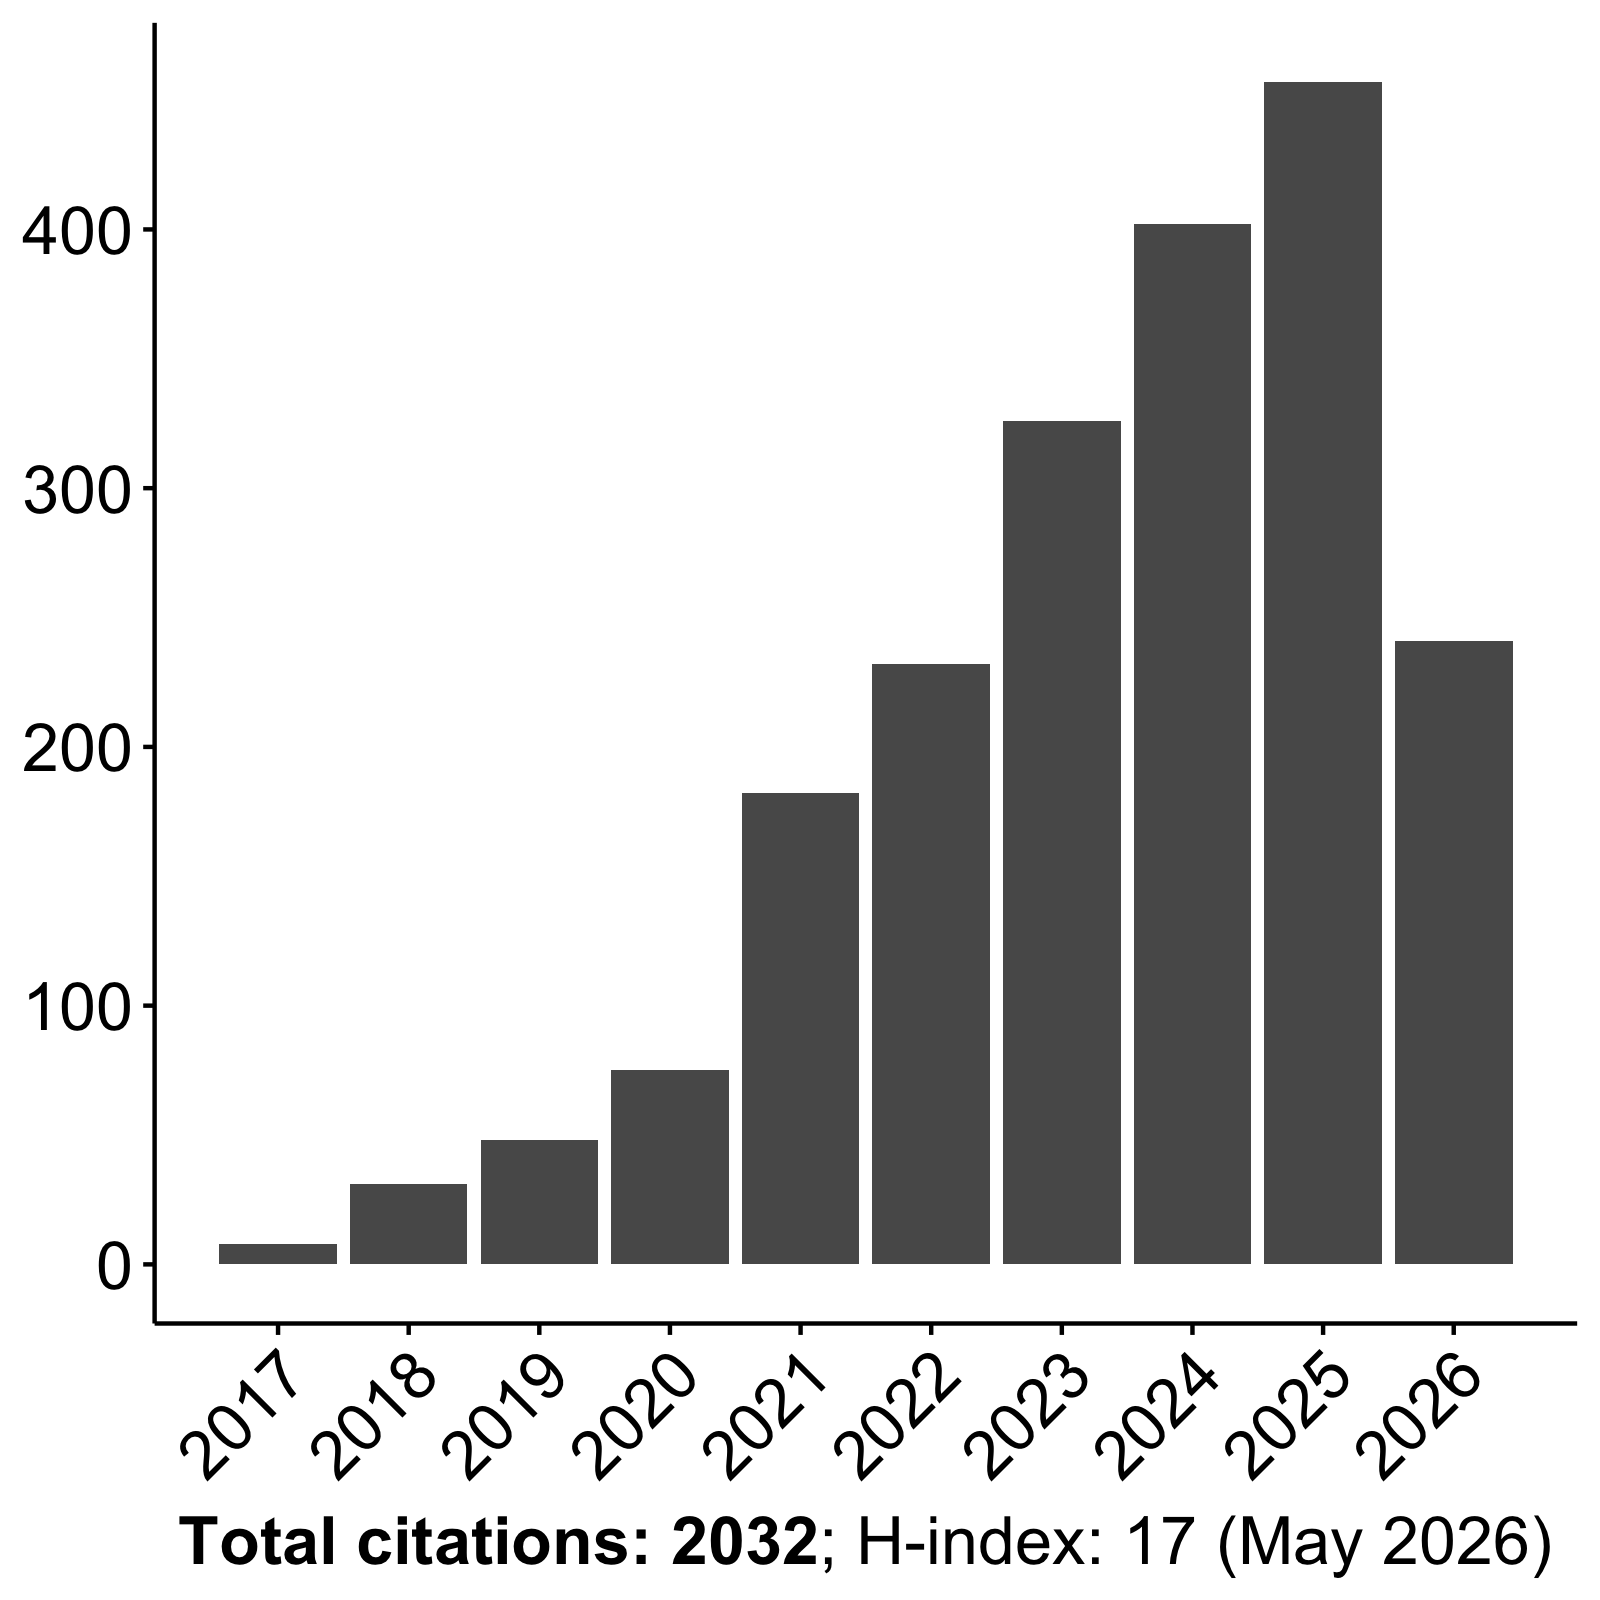
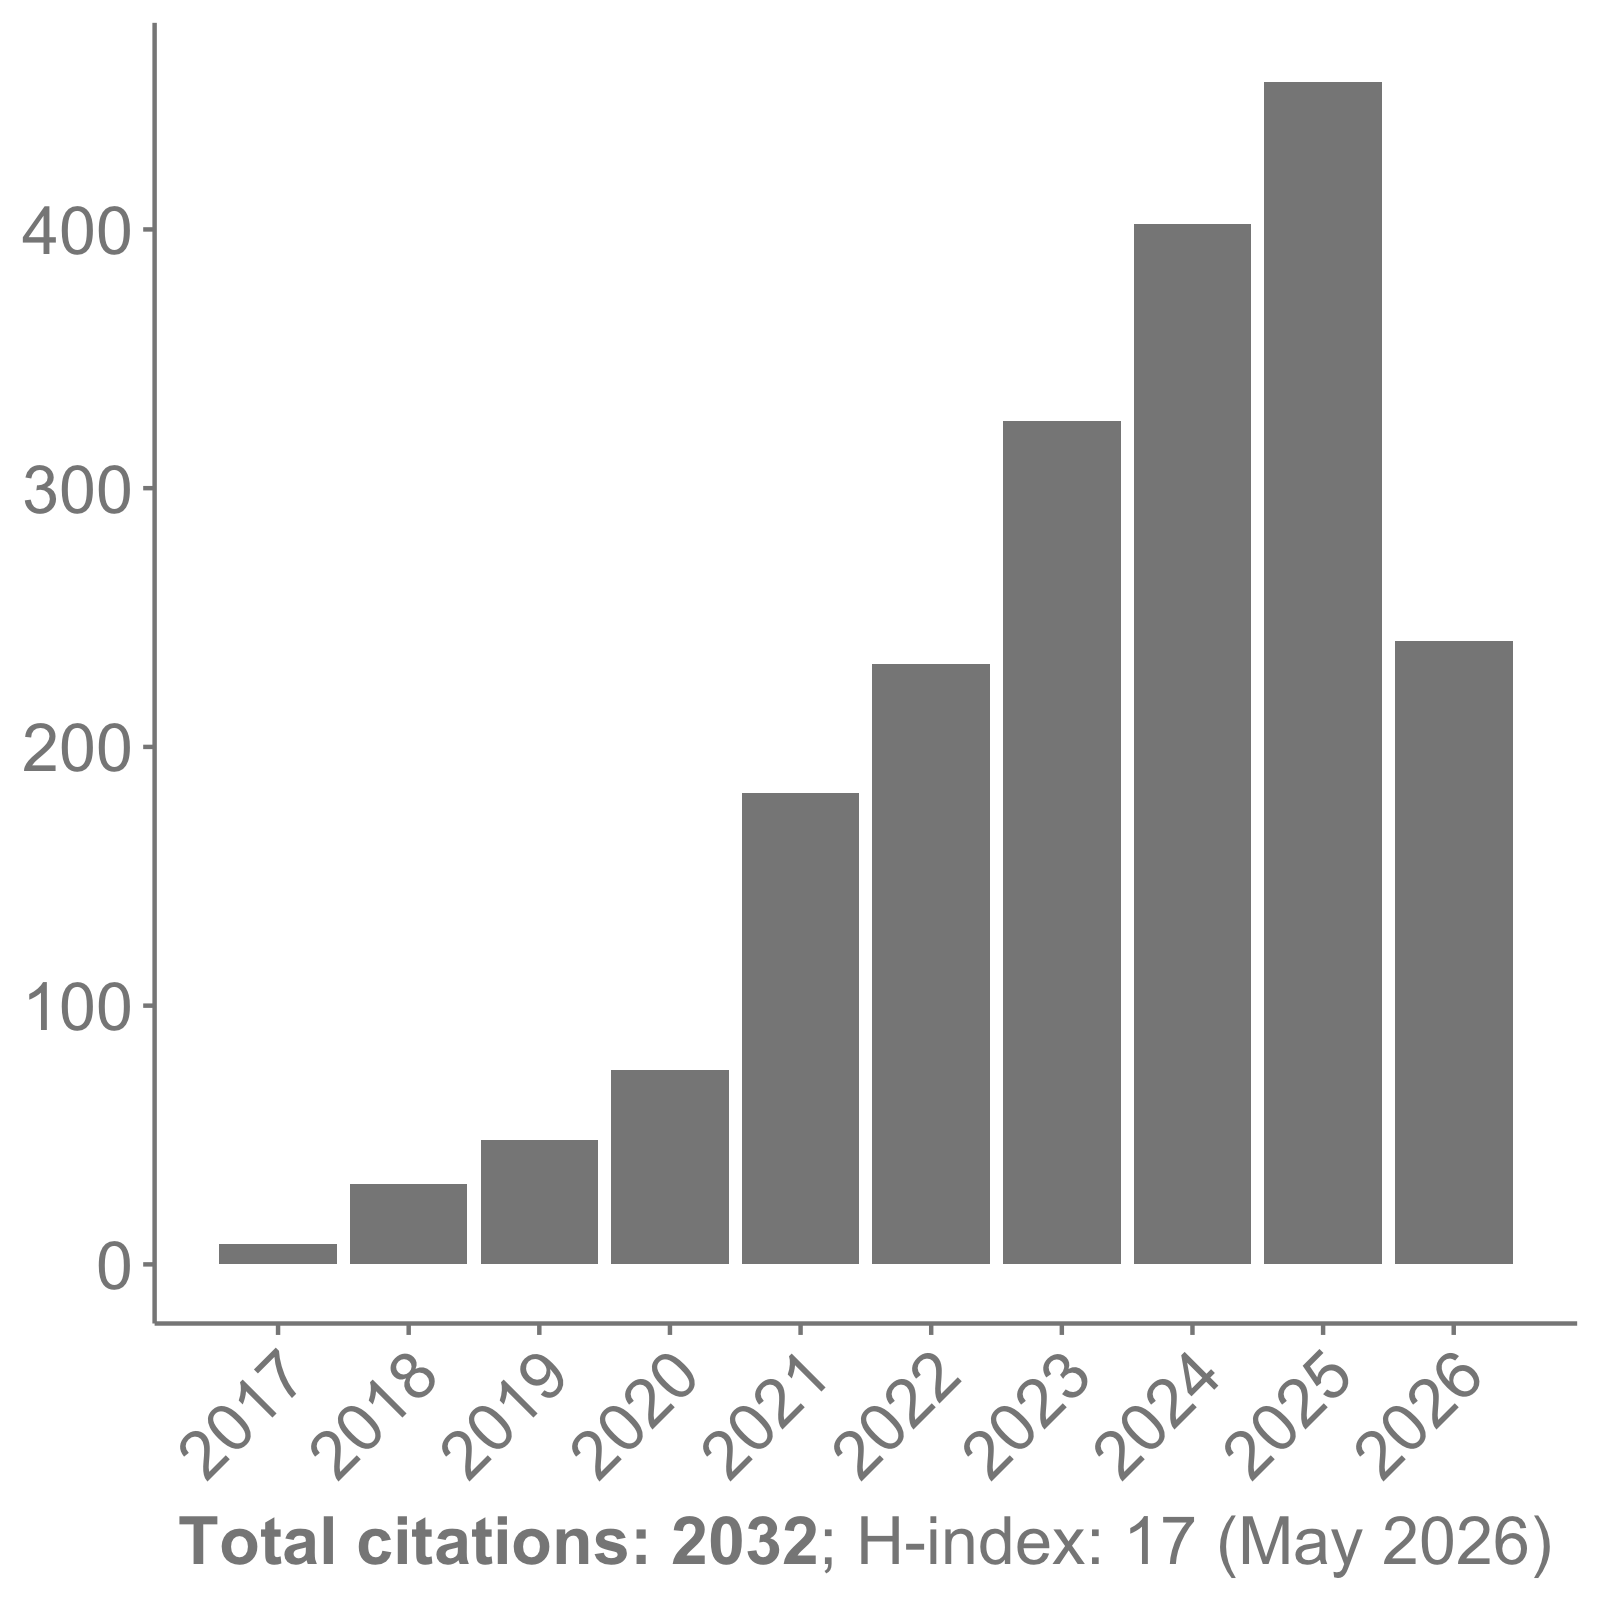
cit plot

diff --git a/_includes/head/custom.html b/_includes/head/custom.html
@@ -25,10 +25,6 @@ html[data-theme="dark"] .altmetric-embed a img {
   background-color: #fff !important;
   border-radius: 50%;
 }
-/* Invert citation graph in dark mode */
-html[data-theme="dark"] img[src*="czymara_scholar_citations"] {
-  filter: invert(1) hue-rotate(180deg);
-}
 </style>
 
 <!-- end custom head snippets -->

diff --git a/_pages/research.md b/_pages/research.md
@@ -21,9 +21,9 @@ permalink: /research/
 .page__content h3 { margin-top: 2.5em; padding-top: 0.8em; border-top: 1px solid #ddd; }
 .page__content h2 + h3 { border-top: none !important; padding-top: 0; margin-top: 0.8em; }
 
-.pub-abstract { display: none; margin-top: 6px; font-size: 0.82em; line-height: 1.5; }
+.pub-abstract { display: none; margin-top: 6px; font-size: 0.9em; line-height: 1.5; font-style: italic; }
 .pub-abstract.open { display: block; }
-.abstract-toggle { cursor: pointer; color: var(--global-link-color); text-decoration: none; margin-right: 12px; display: inline-block; font-size: 0.82em; }
+.abstract-toggle { cursor: pointer; color: var(--global-link-color); text-decoration: none; margin-right: 12px; display: inline-block; }
 .abstract-toggle:hover { text-decoration: underline; }
 </style>
 